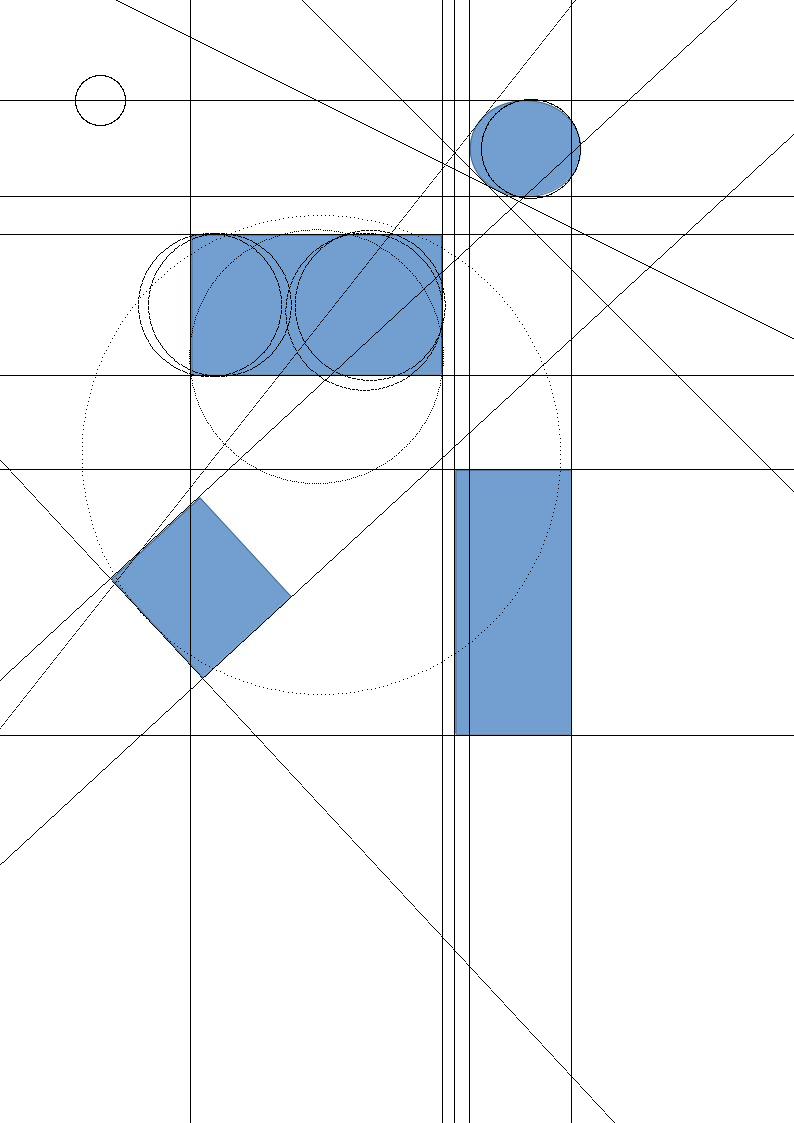
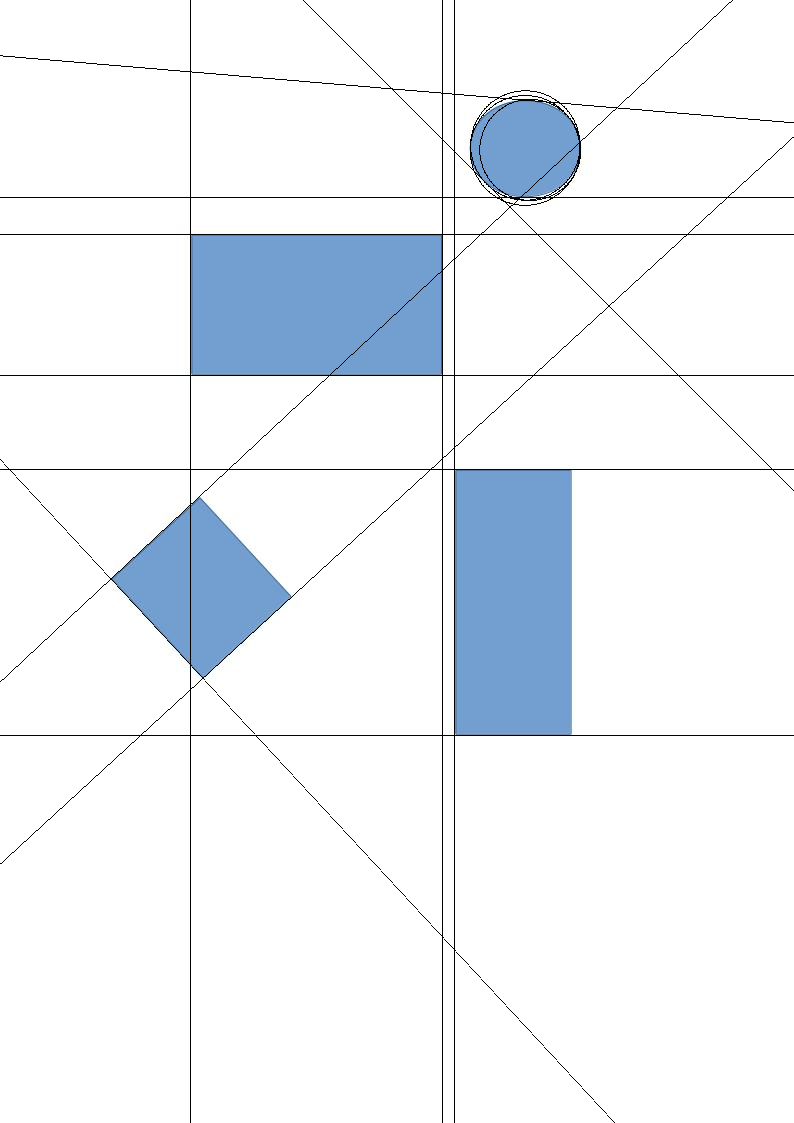
Finalize circles & lines, make a pass over RHT README

diff --git a/examples/rht/README.md b/examples/rht/README.md
@@ -1,8 +1,9 @@
 # Image filtering example
 
 
-This example should demonstrate how to apply basic spatial filtering methods to images, using dcv.
-Should also provide insight to basic setup for any image processing, such as image i/o, image convertion to Slice object etc.
+This example should demonstrate how to use Randomized Hough Transform to detect
+shapes in images. 
+Should showcases a few basics such as image i/o, conversion to Slice object etc.
 
 
 ## Modules used
@@ -10,13 +11,15 @@ Should also provide insight to basic setup for any image processing, such as ima
 * dcv.core.utils
 * dcv.io
 * dcv.imgproc
+* dcv.features.rht
 
 ## Source Image
 
-As source image in this example, Lena image is used (Lena Söderberg). Source data is loaded with next chunk of code:
+As source image in this example is a bunch of geometic shapes (img.png).
+Source data is loaded with next chunk of code:
 
 ```d
-string impath = (args.length < 2) ? "../data/lena.png" : args[1];
+string impath = (args.length < 2) ? "../data/img.png" : args[1];
 
 Image img = imread(impath); // read an image from filesystem.
 
@@ -30,21 +33,12 @@ Slice!(3, float*) imslice = img
 	.sliced!float; // slice image data - calls img.data!float.sliced(img.height, img.width, img.channels)
 ```
 
-![alt tag](https://github.com/ljubobratovicrelja/dcv/blob/master/examples/data/lena.png)
-
-
-## Filter Kernel Creation
-
-In this example spatial filtering is done with image convolution by using gaussian, sobel,
-laplacian and LoG(laplacian of gaussian) operators. These operators can be created by using 
-functions present in ```dcv.imgproc.filter``` module. Each function takes a template argument
-as matrix (Slice) type, which is by default ```real```.
+![alt tag](https://github.com/ljubobratovicrelja/dcv/blob/master/examples/data/img.png)
 
 
 ## Gaussian Blurring
 
-Classic gaussian kernel is created using ```dcv.imgproc.filter.gaussian``` function. By convolving an image
-with created kernel, we can perform image blurring.
+Classic gaussian kernel is created using ```dcv.imgproc.filter.gaussian``` function. By convolving an image with created kernel, we filter out potential noise in the image.
 
 ### Code
 
@@ -58,77 +52,57 @@ auto blur = imslice.conv(gaussianKernel);
 
 ### Result
 
-![alt tag](https://github.com/ljubobratovicrelja/dcv/blob/master/examples/filter/result/outblur.png)
+![alt tag](https://github.com/ljubobratovicrelja/dcv/blob/master/examples/rht/result/outblur.png)
 
 
 ## Edge Detection
 
-In this example, few well known operators are used for spatial edge extraction - sobel, laplacian and laplacian of gaussian.
-Operators are created with:
+In this example, we apply classic Canny filter to detect edges:
 
 ```d
-auto sobelXKernel = sobel!real(GradientDirection.DIR_X); // sobel operator for horizontal (X) gradients
-auto laplacianKernel = laplacian!double; // laplacian kernel, similar to matlabs fspecial('laplacian', alpha)
-auto logKernel = laplacianOfGaussian(1, 5, 5); // laplacian of gaussian, similar to matlabs fspecial('log', alpha, width, height)
+auto canny = blur.canny!ubyte(80);
 ```
 
-### Sobel
+### Result
 
-Gradient direction for sobel operator can be defined with input argument:
+![alt tag](https://github.com/ljubobratovicrelja/dcv/blob/master/examples/rht/result/canny.png)
+
+## Randomized Hough Transform (RHT)
+
+### RHT for lines
+
+Next step is to setup RHT context with key parameters that affect fundamental  properties such as time vs accuracy trade-off. The most important are `epouchs` - number of attempts to detect a shape, and `iterations` - number of steps in each attempt. Small number of iterations leads to poor accuracy, too high a number wastes a lot of CPU cycles. Since not every attempt is successul (being randomized method) the number of epouchs is advised to be 2-4 times larger than the number of expected shapes. `minCurve` parameter allows to filter out degenerate shapes with too few pixels, here we require at least 25 pixels in a shape:
 
 ```d
-// GradientDirection.DIR_X:
-	-1, 0, 1,
-	-2, 0, 2,
-	-1, 0, 1
-
-// GradientDirection.DIR_Y:
-	-1, -2, -1,
-	0, 0, 0,
-	1, 2, 1
-
-// GradientDirection.DIAG:
-	-2, -1, 0,
-	-1, 0, 1,
-	0, 1, 2
-
-// GradientDirection.DIAG_INV:
-	0, -1, -2,
-	1, 0, -1,
-	2, 1, 0
+auto lines = RhtLines().epouchs(50).iterations(250).minCurve(25);
 ```
-#### Result
 
-![alt tag](https://github.com/ljubobratovicrelja/dcv/blob/master/examples/filter/result/sobel.png)
+Apply method and iterate the lazily computating shapes:
+```d
+foreach(line; linesRange) {
+	writeln(line);
+	plotLine(imslice, line, [1.0, 1.0, 1.0]);
+}
+``` 
+It is therefore easy to compute just enough of epouchs to get the first few likely shapes. 
 
-### Laplacian
+### RHT for circles
 
-Laplacian kernel function creates negative 3x3 laplacian kernel defined as:
+Simillar setup is performed for RHT context for circles, using familliar key parameters.
 
 ```d
-              | a/4,    (1-a)/4,   a/4 |
-    4/(a+1) * | (1-a)/4   -1   (1-a)/4 |
-              | a/4,    (1-a)/4,   a/4 |
+auto circles = RhtCircles().epouchs(5).iterations(2000).minCurve(16);
 ```
 
-... so for the alpha value of 0 (which is the default value), we get:
+One twist is application of circle RHT, this time around we use it only on points left off after filtering out lines. This is especially useful filtering technique in pictures where circles is a minory compared to simple lines. Accessing filtered points has other use cases such as reconstructing the scene with some shapes removed.
 
 ```d
-0  1  0
-1 -4  1
-0  1  0
+foreach(circle; circles(canny, linesRange.points[])) {
+	writeln(circle);
+	plotCircle(imslice, circle, [1.0, 1.0, 1.0]);
+}
 ```
 
-#### Result
+### Result
 
-![alt tag](https://github.com/ljubobratovicrelja/dcv/blob/master/examples/filter/result/laplace.png)
-
-### Laplacian Of Gaussian
-
-LoG operator function creates an kernel by [LoG formula](http://homepages.inf.ed.ac.uk/rbf/HIPR2/log.htm),
-and normalize it so it's sum is 0.
-
-#### Result
-
-![alt tag](https://github.com/ljubobratovicrelja/dcv/blob/master/examples/filter/result/log.png)
-
+![alt tag](https://github.com/ljubobratovicrelja/dcv/blob/master/examples/rht/result/rht.png)
